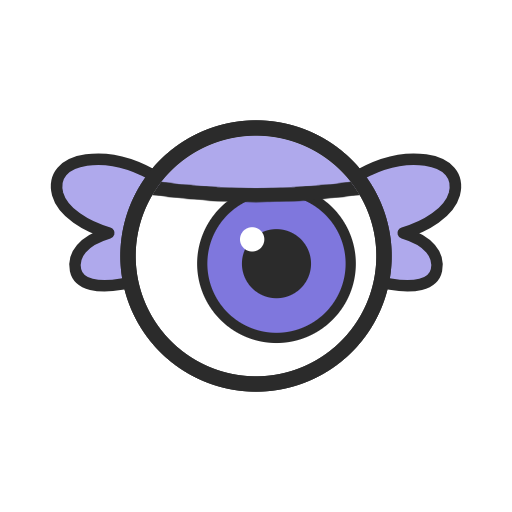
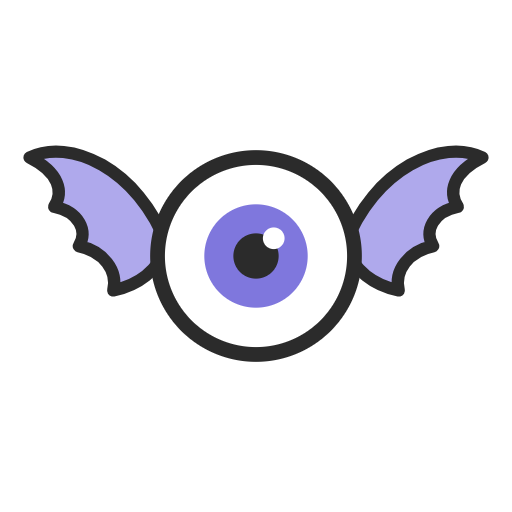
Mascotte : états de la scène selon la charte « L'envoyé » (dessin de mascotte.js inchangé, seuls l'iris et le badge changent), bloquee proposé, planche (#113)

Changed region(s): [[0.0312, 0.2188, 0.9688, 0.7812]]

diff --git a/docs/da/mascotte/README.md b/docs/da/mascotte/README.md
@@ -1,20 +1,22 @@
-# Mascotte : les expressions de la scène (issue #113)
+# Mascotte : les états de la scène (issue #113)
 
-L'œil ailé de la CDO : œil blanc, iris violet `#7F77DD`, ailes arrondies lavande `#AFA9EC`, trait graphite `#2B2B2B`. Pendant le parcours, la scène n'affiche aucun texte : seule l'expression de la mascotte dit ce qui se passe.
+Ces états suivent la charte « L'envoyé » (18/11), section 3 : la mascotte d'Inès, dessin repris tel quel depuis `mascotte.js` (œil rond, ailes lilas). **Le dessin ne change jamais** : seuls la couleur de l'iris et le badge changent selon l'état. Pendant le parcours, la scène n'affiche aucun texte : seule la mascotte dit ce qui se passe.
 
-| Fichier | État | Quand la scène l'affiche | Ce qui le dit |
-|---|---|---|---|
-| `observe` | Observe | tout le parcours : l'agent lit la page, défile, clique | paupière un peu baissée, regard qui glisse sur le côté |
-| `trouve` | Trouvé | un défaut prouvé vient d'être entouré | sourcils froncés, iris corail `#F26B5B`, pupille resserrée |
-| `doute` | Doute | un constat à vérifier par un humain (avis de Holo, pas une preuve) | un sourcil levé, iris lavande `#9D96EA`, regard de côté |
-| `bloquee` | Bloquée | le site refuse les robots, ou une page ne s'ouvre pas : le passage s'arrête | œil fermé, sourcils plats, ailes tombantes |
-| `fini` | Fini | le passage est terminé, le récapitulatif s'ouvre | œil qui sourit, iris citron `#B6E36B`, ailes relevées |
-| `hesite` | Hésite (proposée, 6e) | juste avant un clic de l'agent | regard vers le bas, petits sourcils inquiets |
+| Fichier | État | Quand la scène l'affiche | Iris | Badge |
+|---|---|---|---|---|
+| `observe` | Il regarde. | Pendant toute la visite : il lit, défile, clique. | `#7F77DD` | aucun |
+| `trouve` | Il a trouvé. | Un défaut vient d'être prouvé et entouré. | miltos `#B8321F` | « ! » |
+| `doute` | Il doute. | Il croit voir quelque chose sans pouvoir le prouver : un humain tranche. | ocre `#C48A1E` | « ? » |
+| `bloquee` | Il est bloqué (proposé). | Le site refuse les robots, ou une page ne s'ouvre pas : le passage s'arrête. | encre secondaire `#5C5546` | barre |
+| `fini` | C'est rangé. | La visite est finie, le récapitulatif s'ouvre. | olivier `#2E7D55` | coche |
+
+`bloquee` n'existe pas dans la charte. Il est proposé dans le même système, avec l'encre secondaire de la charte et non une couleur d'état : il n'affirme rien, il dit seulement que la visite s'arrête. À valider par le responsable de la scène.
 
 ## Format
 
-- Un SVG et un PNG transparent par état, **512 × 512**, même cadrage et même centre : la mascotte ne saute pas d'un état à l'autre.
-- Un **fin halo blanc** sous le dessin la garde lisible sur les pages sombres et sur les photos.
-- Essais à taille réelle sur une page claire, sur une photo et sur le voile sombre de fin : `planche.png`, qui montre aussi les 6 états sur fond clair et sur fond sombre.
+- Un SVG et un PNG transparent par état, **512 × 512**. Le cadrage est le même pour tous (celui de `mascotte.js`) : la mascotte ne saute pas d'un état à l'autre.
+- `planche.png` :
+  - les cinq états sur fond ciel et sur fond nuit ;
+  - puis à taille réelle (104 px, la taille du récapitulatif dans la charte) sur une page claire du site d'Eugenia, sur une photo du site et sur fond nuit.
 
 Aucun fichier de code : le couloir du responsable de la scène les branche dans `automatisation/scene/`.
